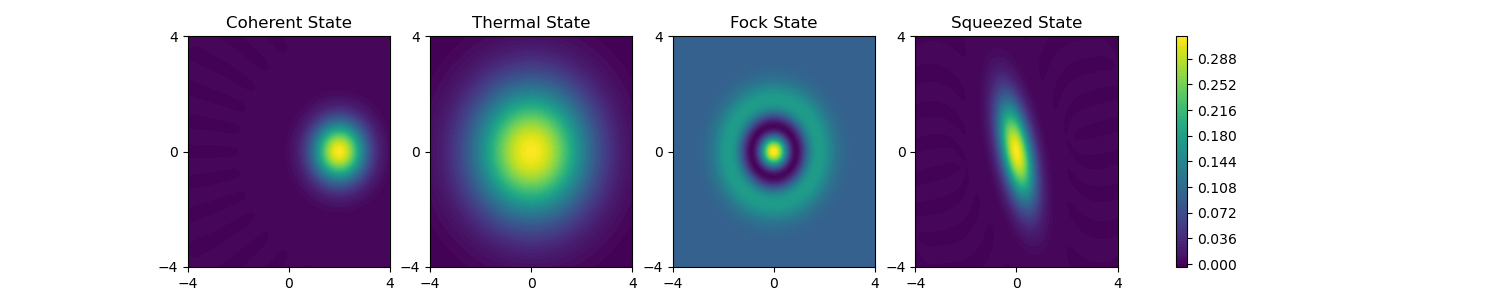
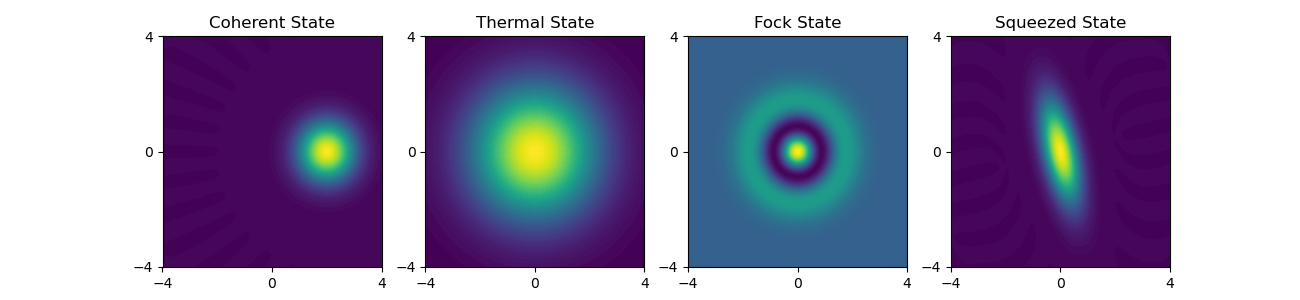
Update codes

diff --git a/quantum-optics/code/wigner-function.py b/quantum-optics/code/wigner-function.py
@@ -36,7 +36,7 @@ W_states = {
 }
 
 # Create a figure for the Wigner functions
-fig, axes = plt.subplots(1, 4, figsize=(15, 3))
+fig, axes = plt.subplots(1, 4, figsize=(13, 3))
 
 # Loop over the states and their corresponding Wigner functions
 for ax, (state, W) in zip(axes, W_states.items()):
@@ -44,9 +44,6 @@ for ax, (state, W) in zip(axes, W_states.items()):
     ax.set_title(state)
     ax.set_xticks([-4, 0, 4])
     ax.set_yticks([-4, 0, 4])
-
-# Add a colorbar to the plot
-cbar = fig.colorbar(cont, ax=axes.ravel().tolist())
 
 plt.savefig('wigner-function-fig.png')
 plt.show()
